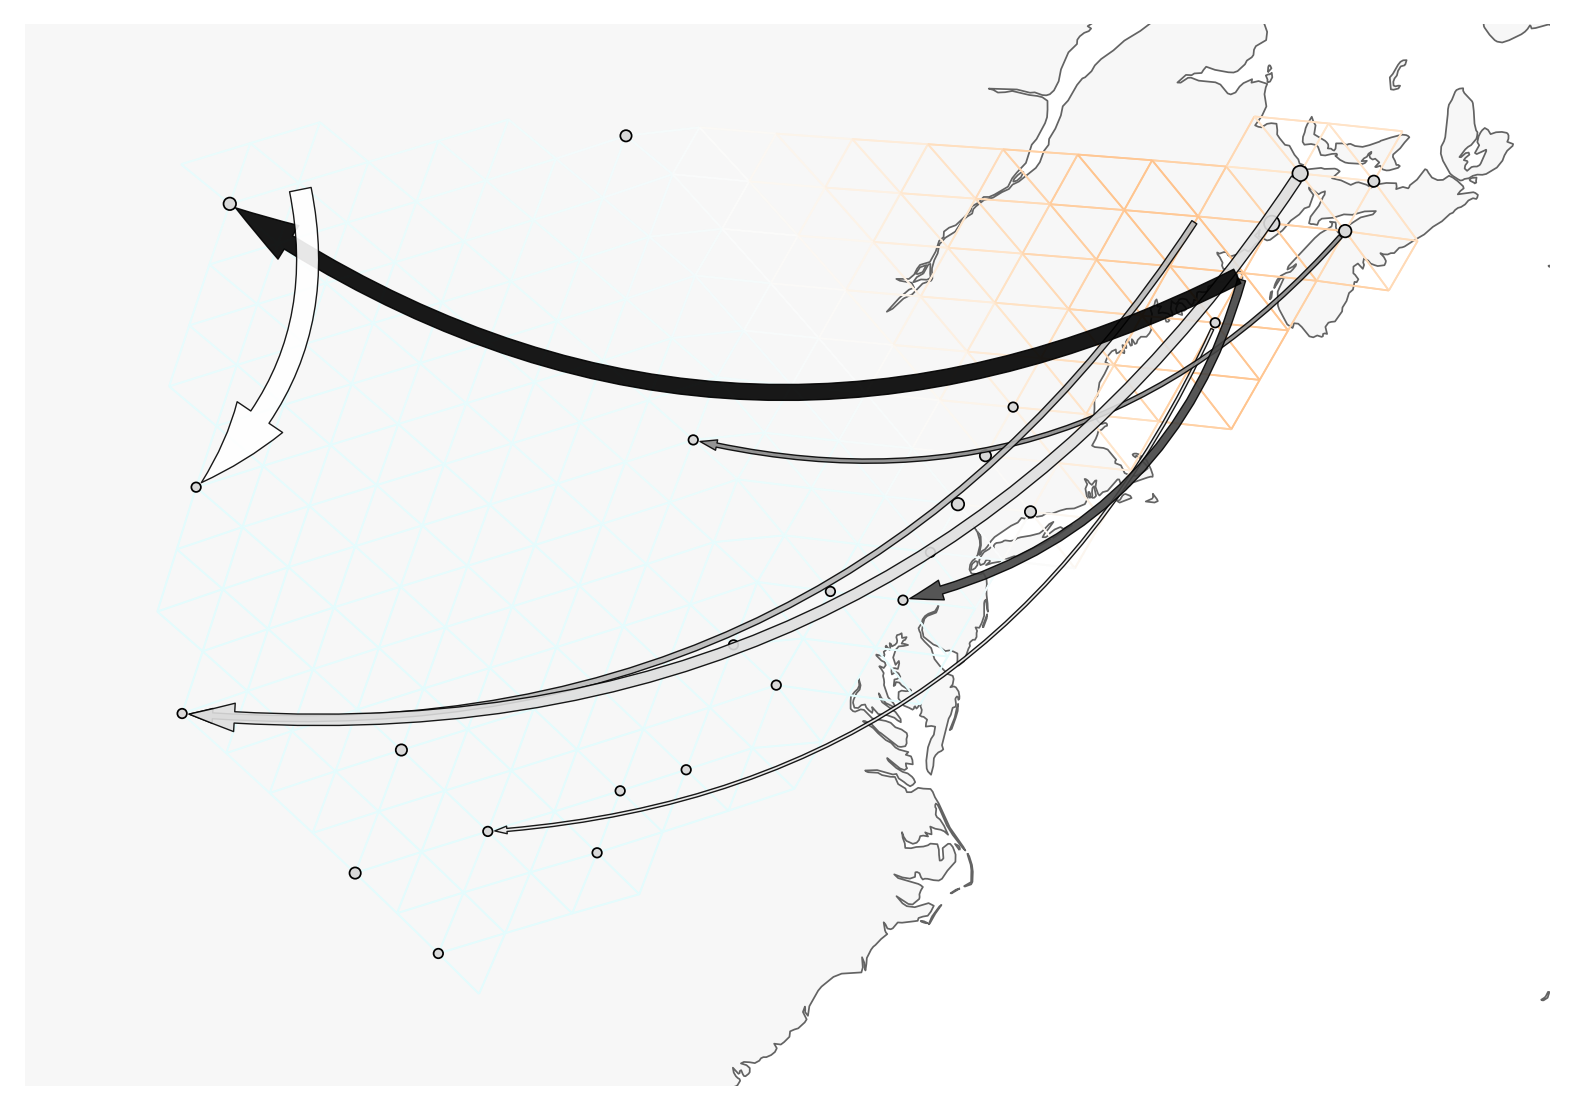
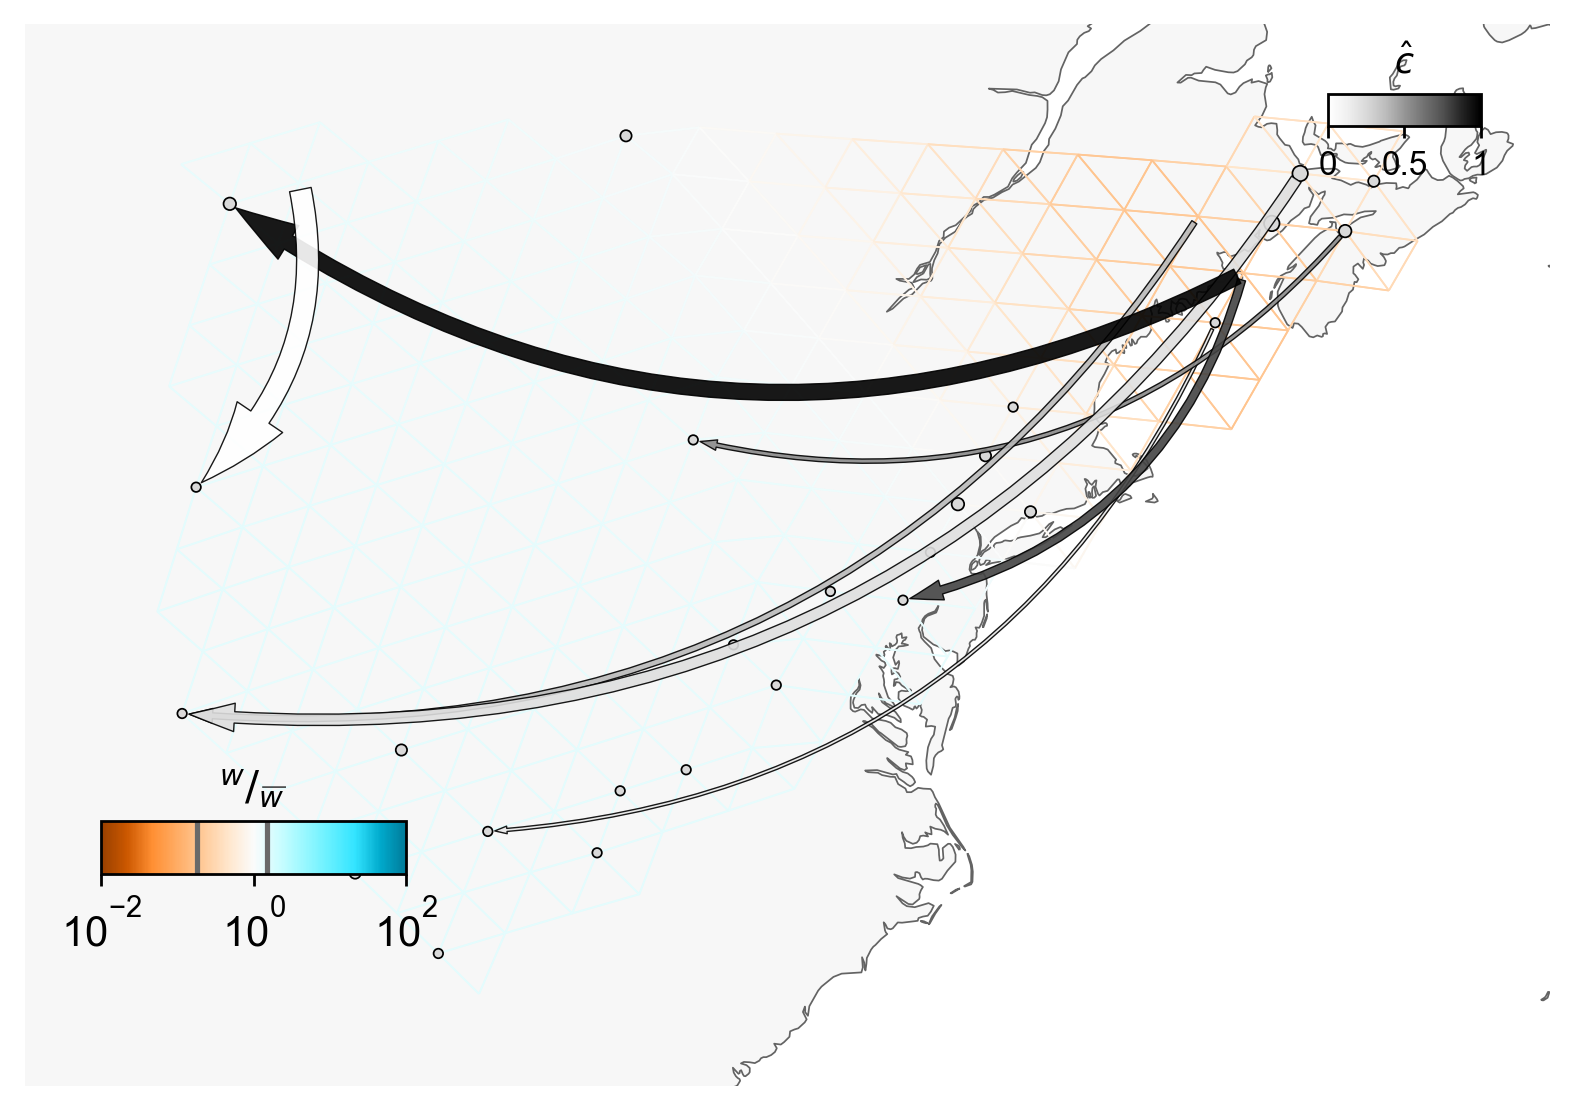
updated feemsmix graph to have legends, failed to make it look nicer

Changed region(s): [[0.0622, 0.7039, 0.28, 0.8569], [0.84, 0.0612, 0.9644, 0.153], [0.0311, 0.8263, 0.0622, 0.8569]]

diff --git a/code/python/feems/01_feems_no-washington.py b/code/python/feems/01_feems_no-washington.py
@@ -165,8 +165,8 @@ v = Viz(ax, sp_graph, projection=projection, edge_width=.5,
         edge_alpha=1, edge_zorder=100, sample_pt_size=20, 
         obs_node_size=7.5, sample_pt_color="black", 
         cbar_font_size=10)
-v.draw_map(); v.draw_edges(use_weights=True); v.draw_obs_nodes()
-v.draw_LREs(seq_results)#; v.draw_edge_colorbar(); v.draw_c_colorbar()
+v.draw_map(); v.draw_edges(use_weights=True); v.draw_edge_colorbar(); v.draw_obs_nodes()
+v.draw_LREs(seq_results); v.draw_c_colorbar()
 
 plot_FEEMSmix_summary(seq_results, sequential=True)
 
@@ -183,11 +183,11 @@ plot_FEEMSmix_summary(seq_results, sequential=True)
 # moving to R for mapping
 
 # write the relevant edge weights out into a csv file
-np.savetxt('edgew.csv', np.vstack((np.array(sp_graph.edges).T, sp_graph.w)).T, delimiter=',')
+#np.savetxt('edgew.csv', np.vstack((np.array(sp_graph.edges).T, sp_graph.w)).T, delimiter=',')
 
 # write the deme coordinates + sample size (node attributes) out into a csv file
-np.savetxt('nodepos.csv', np.vstack((sp_graph.node_pos.T, [sp_graph.nodes[n]['n_samples'] for n in range(len(sp_graph.nodes))])).T, delimiter=',')
+#np.savetxt('nodepos.csv', np.vstack((sp_graph.node_pos.T, [sp_graph.nodes[n]['n_samples'] for n in range(len(sp_graph.nodes))])).T, delimiter=',')
 
 # (if using `FEEMSmix`,` print the MLE source & admix. prop.)
-contour_df = sp_graph.calc_joint_contour(...) 
-print(contour_df.iloc[np.argmax(contour_df['scaled log-lik'])])
+#contour_df = sp_graph.calc_joint_contour(...) 
+#print(contour_df.iloc[np.argmax(contour_df['scaled log-lik'])])
